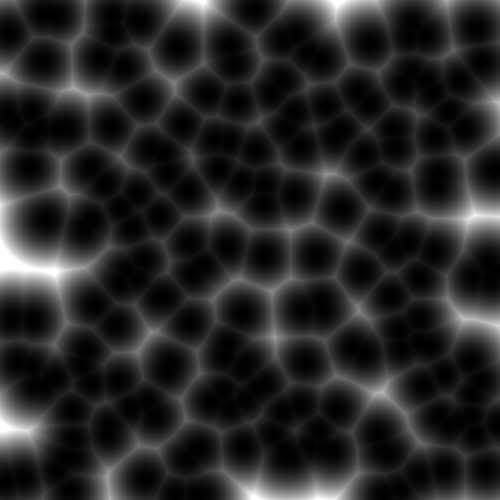
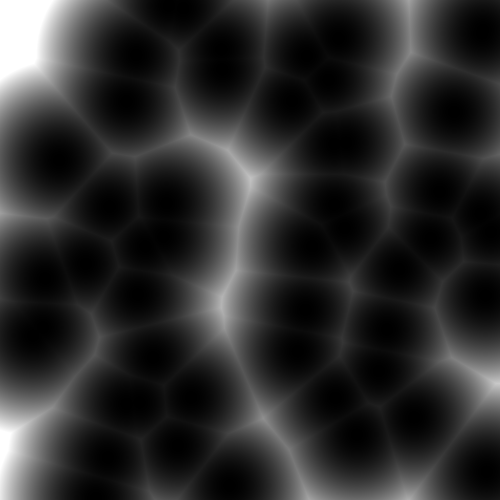
Added Cell animation

diff --git a/main.go b/main.go
@@ -1,7 +1,7 @@
 package main
 
 import (
-	// "fmt"
+	"fmt"
 	"image"
 	"image/color"
 	"image/png"
@@ -9,15 +9,17 @@ import (
 	"math"
 	"math/rand"
 	"os"
+	"sort"
 	"time"
 )
 
 const (
 	//Width and height values
-	WIDTH      = 500
-	HEIGHT     = 500
-	CELL_COUNT = 200
-	BOARD_SIZE = 10.0
+	WIDTH           = 500
+	HEIGHT          = 500
+	CELL_COUNT      = 50
+	BOARD_SIZE      = 5.0
+	MOVEMENT_FACTOR = 1.0
 )
 
 func initialize_map(noise_map *[HEIGHT][WIDTH]uint8) {
@@ -28,8 +30,8 @@ func initialize_map(noise_map *[HEIGHT][WIDTH]uint8) {
 	}
 }
 
-func abs(num float32) float32 {
-	var zero float32 = 0.0
+func abs(num float64) float64 {
+	var zero float64 = 0.0
 	if num < zero {
 		return -num
 	} else {
@@ -37,13 +39,13 @@ func abs(num float32) float32 {
 	}
 }
 
-func distance(p1, p2 [2]float32) float32 {
+func distance(p1, p2 [2]float64) float64 {
 	delta_x := abs(p1[0] - p2[0])
 	delta_y := abs(p1[1] - p2[1])
 	return (delta_x * delta_x) + (delta_y * delta_y)
 }
 
-func clamp(v, lo, hi float32) float32 {
+func clamp(v, lo, hi float64) float64 {
 	if v < lo {
 		return lo
 	} else if v > hi {
@@ -53,7 +55,7 @@ func clamp(v, lo, hi float32) float32 {
 	}
 }
 
-func min(d1, d2 float32) float32 {
+func min(d1, d2 float64) float64 {
 	if d1 < d2 {
 		return d1
 	} else {
@@ -62,23 +64,76 @@ func min(d1, d2 float32) float32 {
 }
 
 func cellular_noise(noise_map *[HEIGHT][WIDTH]uint8) {
-	cells := make([][2]float32, CELL_COUNT)
+	cells := make([][2]float64, CELL_COUNT)
 	for i := range cells {
 		t := time.Now()
 		nsec := t.UnixNano()
 		s := rand.NewSource(int64(nsec))
 		r := rand.New(s)
-		cells[i] = [2]float32{r.Float32() * BOARD_SIZE, r.Float32() * BOARD_SIZE}
+		cells[i] = [2]float64{r.Float64() * BOARD_SIZE, r.Float64() * BOARD_SIZE}
 	}
 	for yi, yv := range noise_map {
 		for xi, _ := range yv {
-			current_point := [2]float32{float32(xi) / float32(WIDTH) * BOARD_SIZE, float32(yi) / float32(HEIGHT) * BOARD_SIZE}
-			var minimum_distance float32 = math.MaxFloat32
-			for _, v := range cells {
+			current_point := [2]float64{float64(xi) / float64(WIDTH) * BOARD_SIZE, float64(yi) / float64(HEIGHT) * BOARD_SIZE}
+			distances := make([]float64, CELL_COUNT)
+			const cell_distance_id = 0
+			for i, v := range cells {
 				distance := distance(current_point, v)
-				minimum_distance = min(distance, minimum_distance)
+				distances[i] = distance
 			}
-			noise_map[yi][xi] = uint8(clamp(minimum_distance, 0.0, 1.0) * 255)
+			sort.Float64s(distances)
+			noise_map[yi][xi] = uint8(clamp(distances[cell_distance_id], 0.0, 1.0) * 255)
+		}
+	}
+}
+
+func cellular_noise_gif(noise_map [HEIGHT][WIDTH]uint8, frames_per_rotation int) {
+	cells := make([][2]float64, CELL_COUNT)
+	radii := make([]float64, CELL_COUNT)
+	start_pos := make([]float64, CELL_COUNT)
+	for i := range cells {
+		t := time.Now()
+		nsec := t.UnixNano()
+		s := rand.NewSource(int64(nsec))
+		r := rand.New(s)
+		cells[i] = [2]float64{r.Float64() * BOARD_SIZE, r.Float64() * BOARD_SIZE}
+		s = rand.NewSource(int64(nsec) + 1)
+		r = rand.New(s)
+		radii[i] = (1.0 - (r.Float64() * 0.15)) * MOVEMENT_FACTOR
+		s = rand.NewSource(int64(nsec) - 1)
+		r = rand.New(s)
+		start_pos[i] = r.Float64() * 10
+	}
+	frames := make([][HEIGHT][WIDTH]uint8, frames_per_rotation)
+	for t := 0; t < frames_per_rotation; t++ {
+		for yi, yv := range noise_map {
+			for xi, _ := range yv {
+				current_point := [2]float64{float64(xi) / float64(WIDTH) * BOARD_SIZE, float64(yi) / float64(HEIGHT) * BOARD_SIZE}
+				distances := make([]float64, CELL_COUNT)
+				const cell_distance_id = 0
+				for i, v := range cells {
+					distance := distance(current_point, [2]float64{v[0] + (math.Sin(2 * math.Pi * ((float64(t) / float64(frames_per_rotation)) + start_pos[i]) * radii[i])), v[1] + (math.Cos(2*math.Pi*((float64(t)/float64(frames_per_rotation))+start_pos[i])) * radii[i])})
+					distances[i] = distance
+				}
+				sort.Float64s(distances)
+				noise_map[yi][xi] = uint8(clamp(distances[cell_distance_id], 0.0, 1.0) * 255)
+			}
+		}
+		frames[t] = noise_map
+	}
+	for i, noise_map := range frames {
+		frame := image.NewRGBA(image.Rect(0, 0, WIDTH, HEIGHT))
+		write_image(noise_map, frame)
+		name := fmt.Sprintf("frame%d.png", i)
+		fmt.Println(name)
+		f, err := os.Create(name)
+		if err != nil {
+			log.Fatal(err)
+		}
+		defer f.Close()
+		err = png.Encode(f, frame)
+		if err != nil {
+			log.Fatal(err)
 		}
 	}
 }
@@ -99,22 +154,21 @@ func main() {
 	//Fills the map with white
 	initialize_map(&noise_map)
 
-	cellular_noise(&noise_map)
+	cellular_noise_gif(noise_map, 60)
+	// img := image.NewRGBA(image.Rect(0, 0, WIDTH, HEIGHT))
 
-	img := image.NewRGBA(image.Rect(0, 0, WIDTH, HEIGHT))
+	// write_image(noise_map, img)
 
-	write_image(noise_map, img)
+	// //Creates an image
+	// f, err := os.Create("result.png")
+	// if err != nil {
+	// 	log.Fatal(err)
+	// }
+	// defer f.Close()
 
-	//Creates an image
-	f, err := os.Create("result.png")
-	if err != nil {
-		log.Fatal(err)
-	}
-	defer f.Close()
-
-	// Encodes and saves to png
-	err = png.Encode(f, img)
-	if err != nil {
-		log.Fatal(err)
-	}
+	// // Encodes and saves to png
+	// err = png.Encode(f, img)
+	// if err != nil {
+	// 	log.Fatal(err)
+	// }
 }
